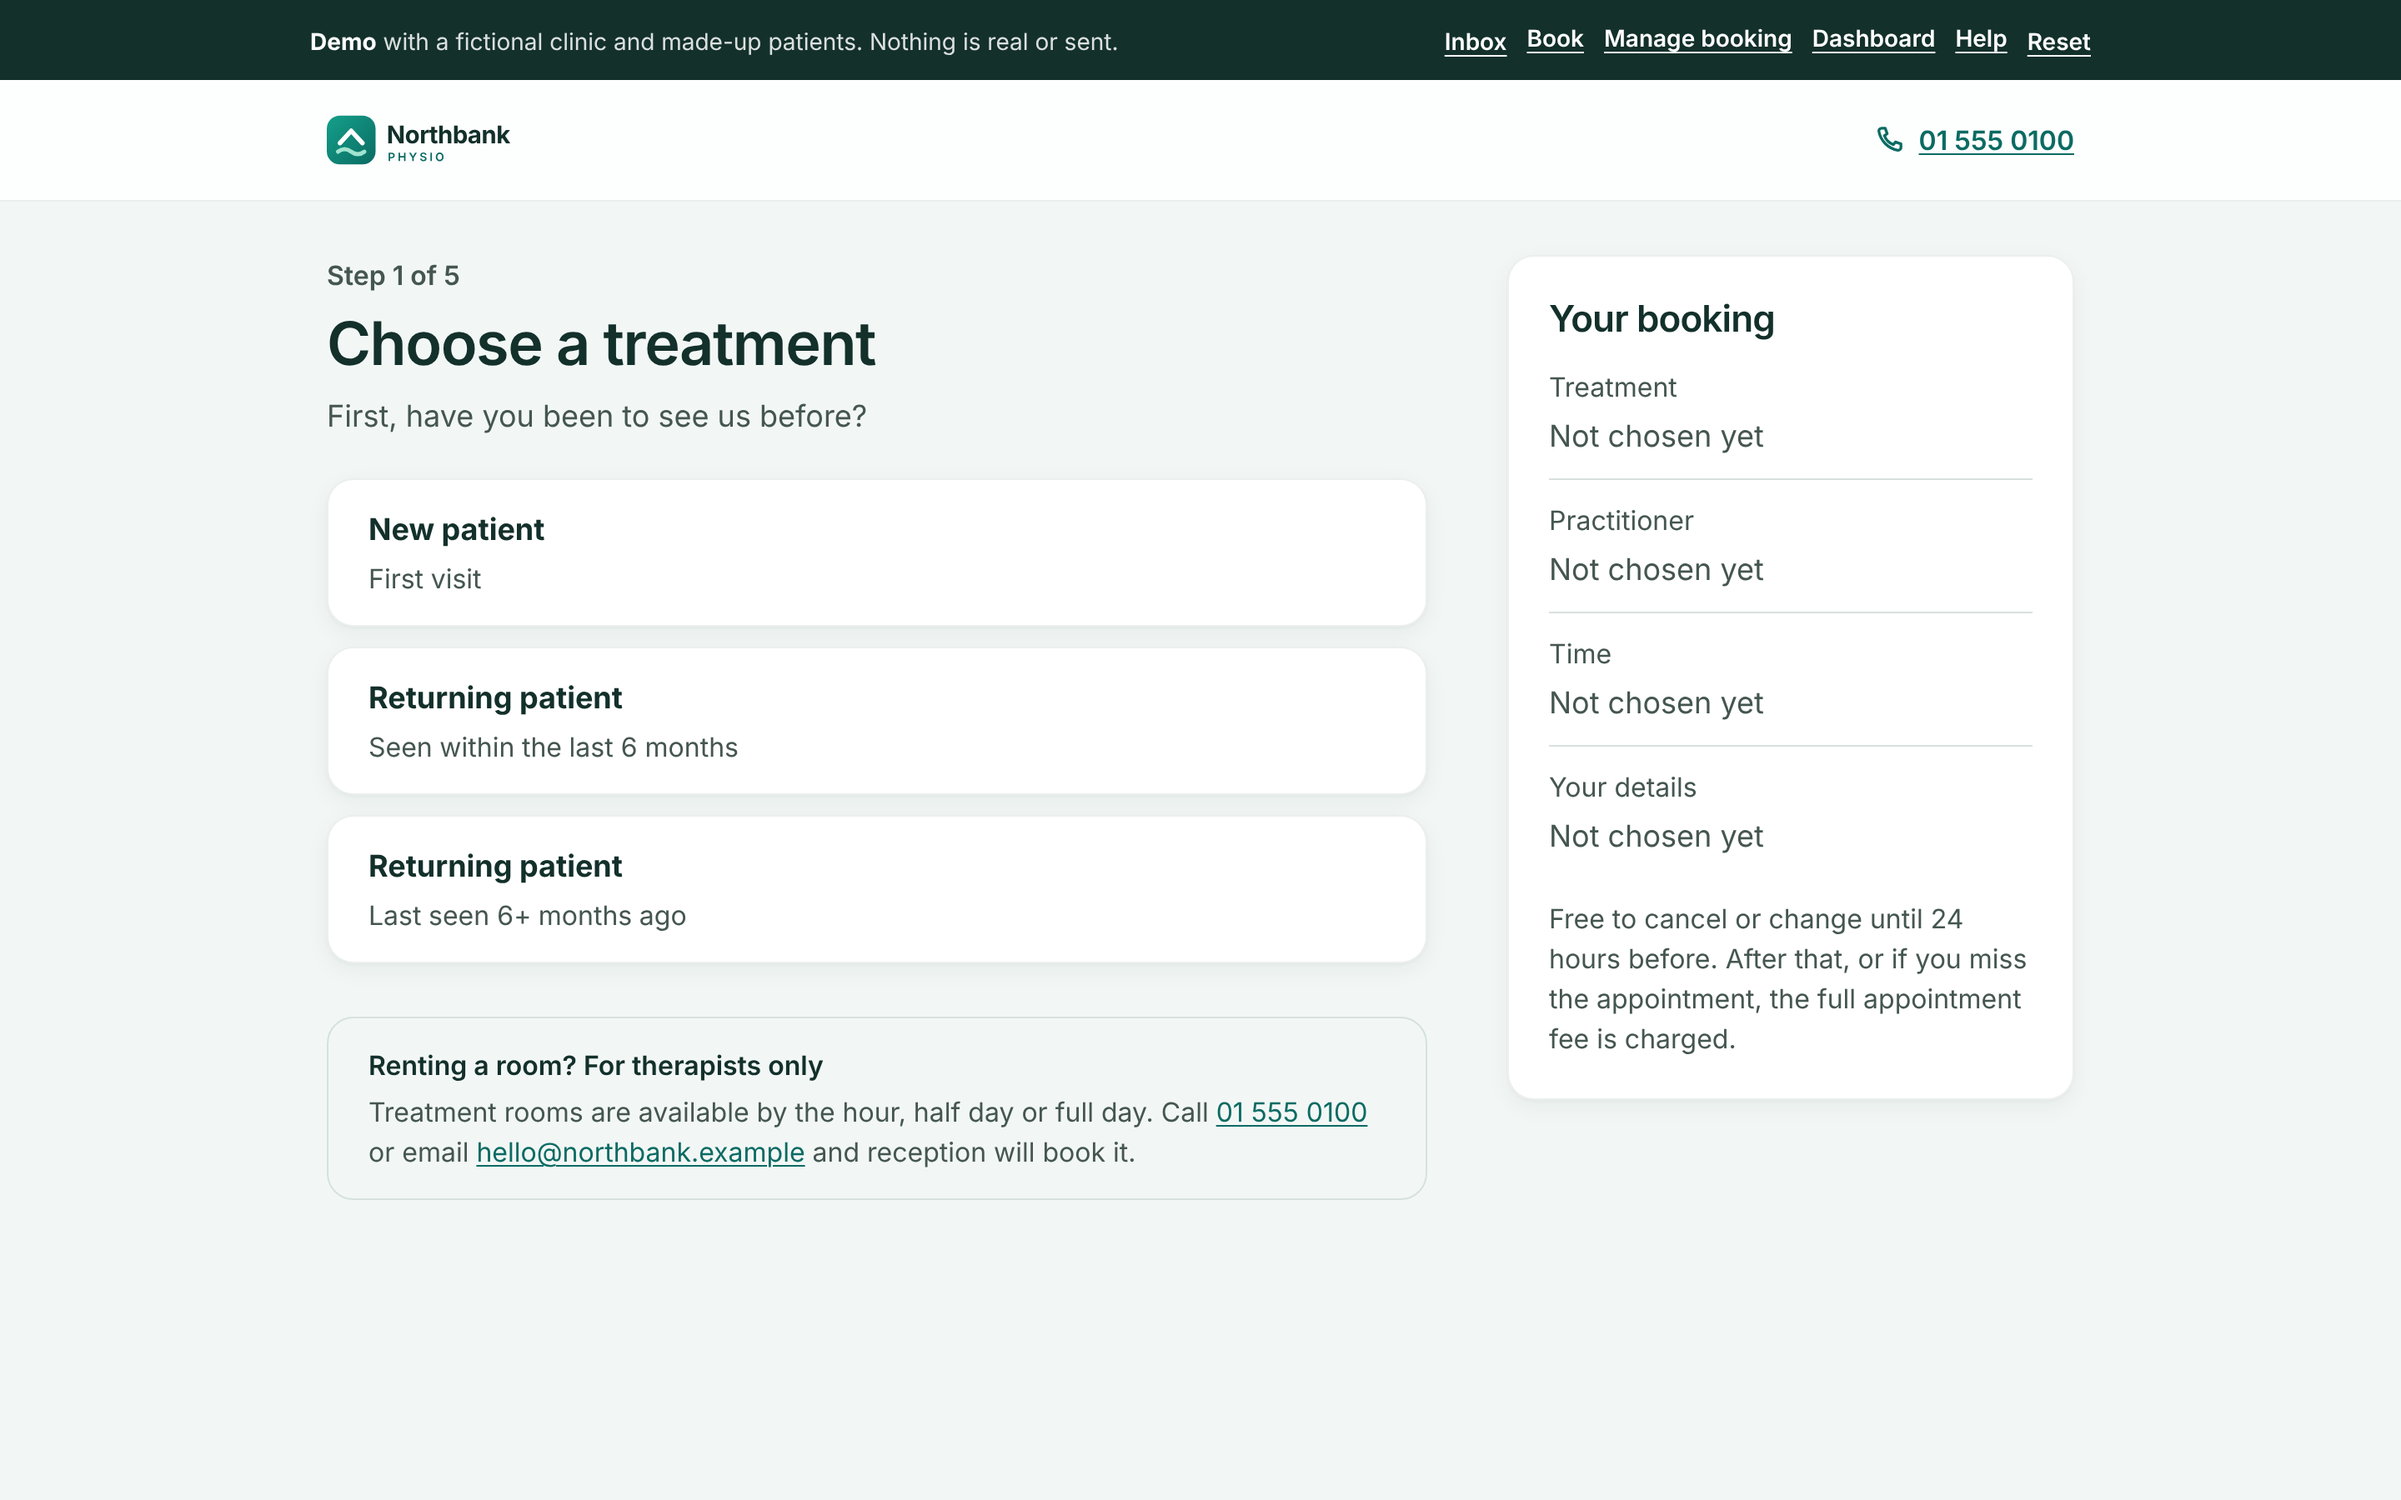
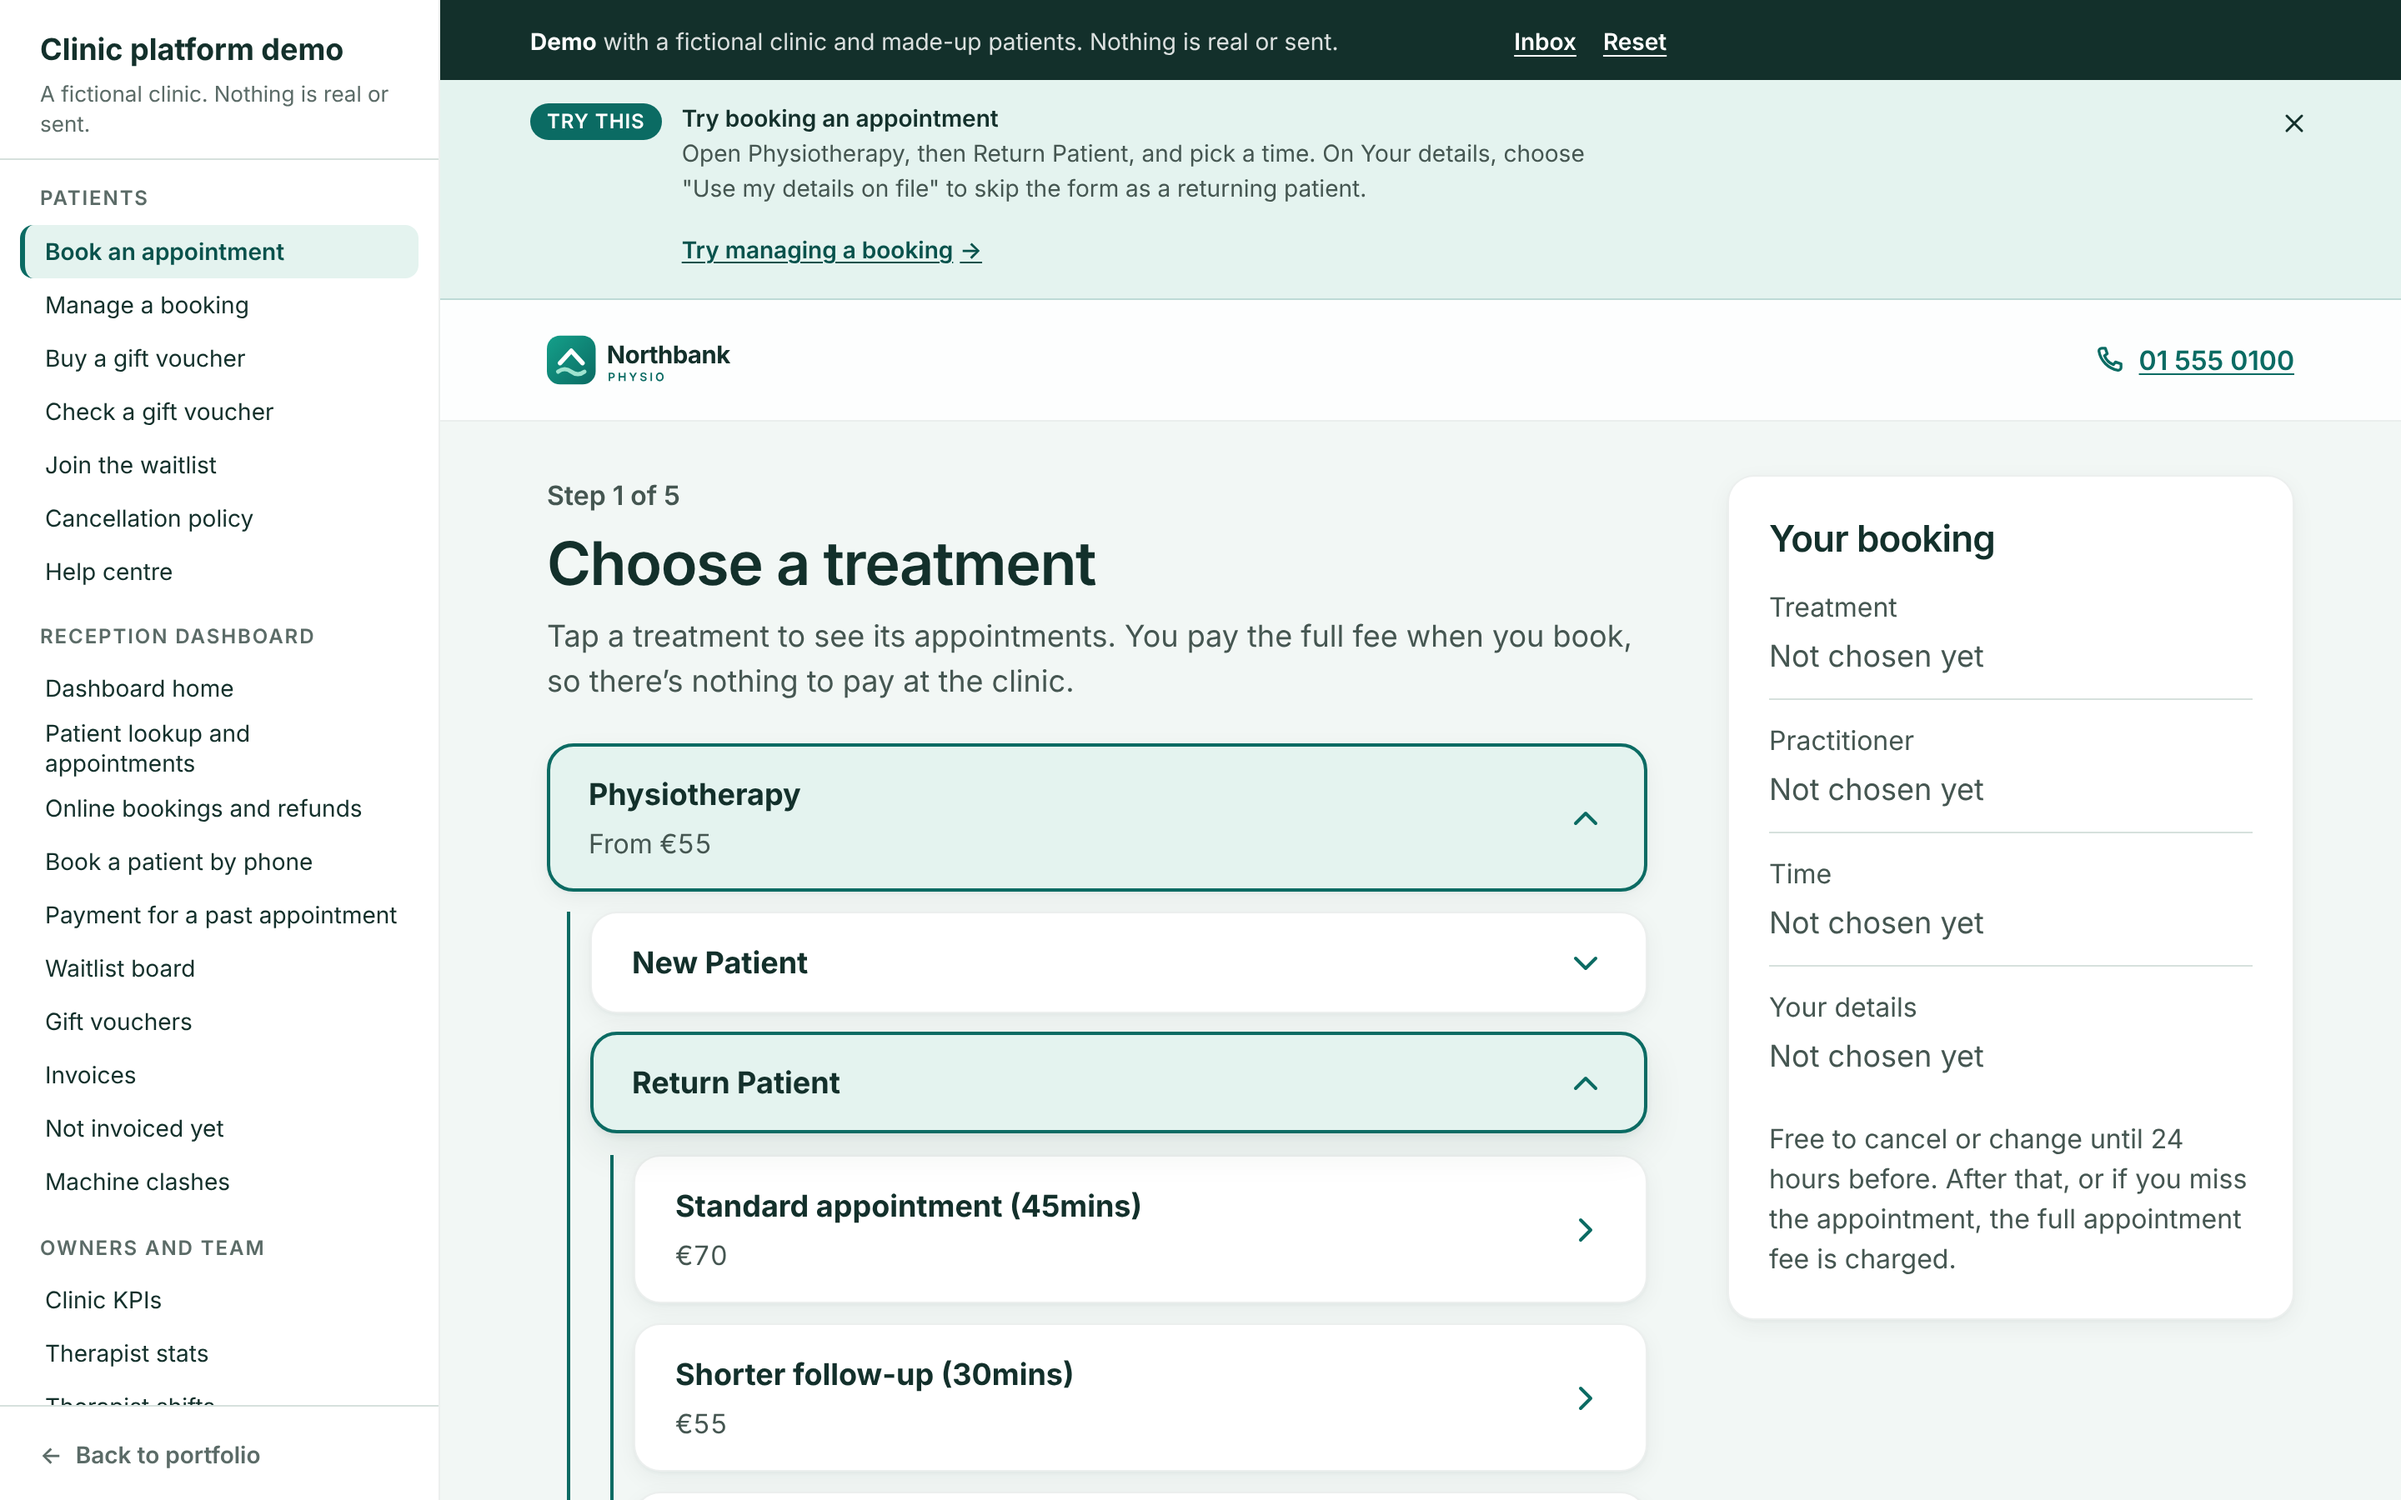
README: new features, screenshots, help-centre capture script; fresh demo screenshots
Claude-Session: https://claude.ai/code/session_01VDCQDtEXFuC88e28vdXHVP

diff --git a/README.md b/README.md
@@ -4,7 +4,7 @@ Online booking, payments and a reception dashboard for a physiotherapy clinic.
 
 **[Live demo](https://cian-clinic-demo.vercel.app)** · **[Portfolio](https://cianmccaul.vercel.app)**
 
-![The demo's booking page for the fictional Northbank Physio, with the demo bar's Inbox, Dashboard and Reset links](docs/screenshot.png)
+![The demo's booking page: the sidebar lists every page of the demo, a "Try this" card suggests what to do next, and the treatment dropdowns are open at Physiotherapy, Return Patient](docs/screenshot.png)
 
 This is a public, working copy of a platform I built for a multi-therapist clinic in Dublin. The real system has been live since October 2026, taking bookings and payments every day. Here it runs as a **fictional clinic, Northbank Physio**, with made-up patients. It's the production interface, unchanged, with a pretend back end that runs in your browser, so there are no accounts or keys and nothing is ever charged or sent.
 
@@ -17,19 +17,31 @@ npm install
 npm run dev
 ```
 
-Open http://localhost:3000. The dark bar at the top has an **Inbox** (every email the system "sends") and **Reset**.
+Open http://localhost:3000. No instructions needed:
+
+- **Every page is in the sidebar** (on a phone, the **Menu** button), with the page you're on highlighted, and **← Back to portfolio** at the foot.
+- **A "Try this" card** under the dark demo bar says what to do on each page, with one-tap demo data (a ready email, a sample voucher code, a patient to look up) and a link to the next thing to try. Close it and it stays closed.
+- **Sign-in codes arrive as a simulated phone notification**, top right. Click it to fill the code in.
+- The **Inbox** in the demo bar has every email and text the clinic "sends". **Reset** starts the clinic again.
+
+| Phone menu | Code notification | Annotated help-centre guide |
+| --- | --- | --- |
+| ![The phone Menu: every page of the demo, the current one highlighted](docs/phone-menu.png) | ![A simulated Messages notification showing the sign-in code on Manage a booking](docs/notification.png) | ![A staff guide step with a screenshot of the demo, numbered callouts and a legend](docs/guide.png) |
 
 ### Things to try
 
-1. **Book an appointment.** Pick a treatment, therapist and time, fill in your details and pay on the pretend checkout page.
-2. **Break it on purpose.** On the checkout page, choose *"Someone takes the time while I pay"*: you keep your payment and get a link (in the Inbox) to pick another time, or ask for a refund. Choose *"The clinic diary is down"*: you're refunded in full automatically.
-3. **Manage a booking** as `jack.murphy@example.com`. The sign-in code arrives in the Inbox. Jack has one booking more than 24 hours away (free to cancel or move) and one inside 24 hours (the fee applies).
-4. **Run reception** from the **Dashboard**. You're signed in as an owner, so every area shows.
-   - **Online bookings**: refunds, extras, no-show and late-cancel fees, pausing online booking, the daily checks and the activity log.
-   - **Appointments**: find a patient, move or cancel their appointments, and sort out patients who paid for a time that was taken.
-   - **Book a patient by phone**: the patient's steps, then a payment link (open it from the Inbox and pay it) or their saved card.
-   - **Payment for a past appointment**, **Waitlist** (offer a time by hand, or "Look for times now"), **Invoices** and **Clinic KPIs**.
-5. **Look around the rest.** Machine clashes, gift vouchers, tasks, therapist stats, shifts, emails, team, timesheets and the guides are view-only, with sample data.
+1. **Book an appointment.** The treatment menu opens in place: Physiotherapy, then New or Return Patient, then the appointment. Pick a therapist and time.
+2. **Skip the form as a returning patient.** On Your details, choose *Use my details on file* as `hannah.lynch@example.com`: her details are on file, so there's nothing to type and she pays by card. As `jack.murphy@example.com`, his saved card is used too, so he skips the card page as well.
+3. **Break it on purpose.** On the pretend card page, choose *"Someone takes the time while I pay"*: you keep your payment and get a link (in the Inbox) to pick another time, or ask for a refund. Choose *"The clinic diary is down"*: you're refunded in full automatically.
+4. **Manage a booking** as `jack.murphy@example.com` (one tap from the hint). Move or cancel under the 24-hour rule, and see **Past payments**: every payment, its card, an extra treatment and a refund.
+5. **Buy a gift voucher**, then use its code (from the Inbox) on the Pay step of a booking, check what's left on [Check a gift voucher](http://localhost:3000/vouchers/balance), or use it at the desk on the dashboard.
+6. **Run reception** from the **Dashboard**. You're signed in as an owner, so every area shows.
+   - **Patient lookup and appointments**: find anyone by name or date of birth, then move or cancel their appointments.
+   - **Book a patient by phone**: look the caller up (their details fill in), then send a payment link **by text** or email, or charge their saved card.
+   - **Online bookings**: refunds, extras, no-show and late-cancel fees, pausing online booking and the activity log.
+   - **Waitlist** (offers go out by text), **Gift vouchers** (use, undo, refund, cancel), **Payment for a past appointment**, **Invoices** and **Clinic KPIs**.
+7. **Read the help centre.** Patient and staff guides, every step with a screenshot captured from this demo and numbered callouts.
+8. **Look around the rest.** Machine clashes, tasks, therapist stats, shifts, emails, team and timesheets are view-only, with sample data.
 
 ## What it does
 
@@ -40,6 +52,14 @@ Open http://localhost:3000. The dark bar at the top has an **Inbox** (every emai
 **One cancellation policy.** The 24-hour rule and its wording live in one module, used by booking, "Manage my booking", reception and every email.
 
 **Therapists paid directly.** Each payment is a direct charge on the therapist's own Stripe account, because they're self-employed and the money is theirs. Staff the clinic pays itself are charged on the clinic's own account.
+
+**A booking menu in the clinic's own words.** Step 1 is dropdowns that open in place, laid out exactly as the clinic wrote its list. Every line is matched to an appointment type in the diary, so the price shown is always the price charged, a level with one choice is skipped, and a type the list doesn't mention is never hidden.
+
+**Returning patients don't type it all again.** An emailed code proves who they are; their details come from their record and only what's missing is asked. With a saved card they skip the card page too. A family sharing one email still gets the full form, because the booking could go on the wrong record.
+
+**Gift vouchers as a ledger.** A voucher's balance is the sum of its lines (bought, used, undone, refunded), so every change is on record. What an online booking is using is set aside while the patient pays, so it can't be spent twice, and cancelling in time puts it back.
+
+**Texts that say nothing private.** Payment links and waitlist offers go by text to Irish mobiles: the date and a link, never the treatment, because texts show on lock screens.
 
 **One machine, one booking.** There's one shockwave machine and one laser, so the Hub never offers a time when the machine is in use, and a dashboard page catches clashes made straight in the diary.
 
@@ -55,21 +75,30 @@ core/                    the production business logic: pure, no I/O
   policy.ts              the 24-hour rule, its wording, money helpers
   waitlist.ts            who gets offered a time, and when
   machines.ts            shockwave and laser capacity, clash finding
+  booking-menu.ts        step 1's dropdowns, built from the clinic's list
+  returning-checkout.ts  returning patients: details from their record, only gaps asked
+  vouchers.ts            gift voucher codes, ledger rules, what a voucher covers
+  guides/                the help centre's guides; shots.ts is written by the capture script
   kpi2.ts, kpi2-report   the KPI report (it runs on the demo diary here)
   ...
 lib/                     type-only stand-ins for the server modules
 demo/
   install.ts             answers the pages' /api calls in the browser
-  DemoBar.tsx            the demo bar, its Inbox and Reset
+  DemoBar.tsx            the demo bar, sidebar, phone Menu, Inbox and Reset
+  DemoHints.tsx          the "Try this" card for each page
+  DemoNotification.tsx   the simulated phone notification for sign-in codes
+  nav.ts                 every page of the demo, and each page's hint
   server/
     flows.ts             pay-then-book, the webhook, rebook, refunds, cancelling
     diary.ts             stands in for Cliniko: availability, holds, appointments
     stripe.ts            stands in for Stripe: charges and refunds per account
-    paylinks.ts          phone bookings and waitlist offers
+    paylinks.ts          phone bookings and waitlist offers, by email or text
+    vouchers.ts          gift vouchers: bought, emailed, used, set aside while paying
     kpis.ts              feeds the real KPI report from the demo diary
     seed.ts              a believable month of made-up data
     routes/              the /api routes: patient, reception, money, waitlist, view-only
 app/demo-checkout/       the pretend Stripe page, with "simulate a problem"
+scripts/guide-shots.mjs  captures every help-centre screenshot from the running demo
 tests/                   the demo server end to end, plus the production unit tests for core/
 docs/architecture.md     how the real system is designed
 ```
@@ -80,7 +109,18 @@ docs/architecture.md     how the real system is designed
 npm test
 ```
 
-142 tests in 21 files (Vitest), all passing. `tests/demo-server.test.ts` runs the flows through the API: a paid booking, a repeated webhook, a time taken mid-payment (payment kept, rebooked, or refunded after 7 days), the diary down, the 24-hour rule both ways, refund limits, phone pay links, waitlist offers and the machine rule. `tests/core/` holds the production unit tests for the shared logic (policy, waitlist, KPIs, invoices, roles and more), unchanged apart from the clinic's details.
+179 tests in 24 files (Vitest), all passing. `tests/demo-features.test.ts` covers the features brought over from the live system: returning patients skipping the form (and a shared email not), past payments, gift vouchers bought, used online and at the desk and put back on cancelling, texts, and the demo's menu, hints and guide pictures. `tests/demo-server.test.ts` runs the flows through the API: a paid booking, a repeated webhook, a time taken mid-payment (payment kept, rebooked, or refunded after 7 days), the diary down, the 24-hour rule both ways, refund limits, phone pay links, waitlist offers and the machine rule. `tests/core/` holds the production unit tests for the shared logic (policy, waitlist, KPIs, invoices, roles and more), unchanged apart from the clinic's details.
+
+### Help-centre screenshots
+
+Every guide picture is captured from this demo, never from a real clinic's system, with Playwright:
+
+```
+npm run dev
+npm run guide-shots
+```
+
+It walks through the demo as a patient (phone size) and as reception (desktop size), saves each screen to `public/guide-img/`, and records where each numbered callout goes in `core/guides/shots.ts`. The callouts are drawn over the pictures when a guide is shown, so they stay sharp at any size.
 
 ## Built with
 
